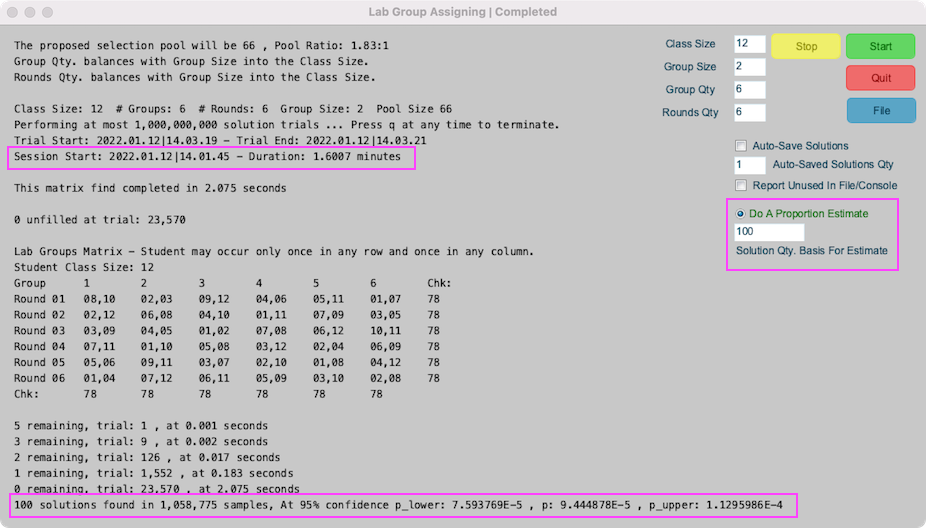
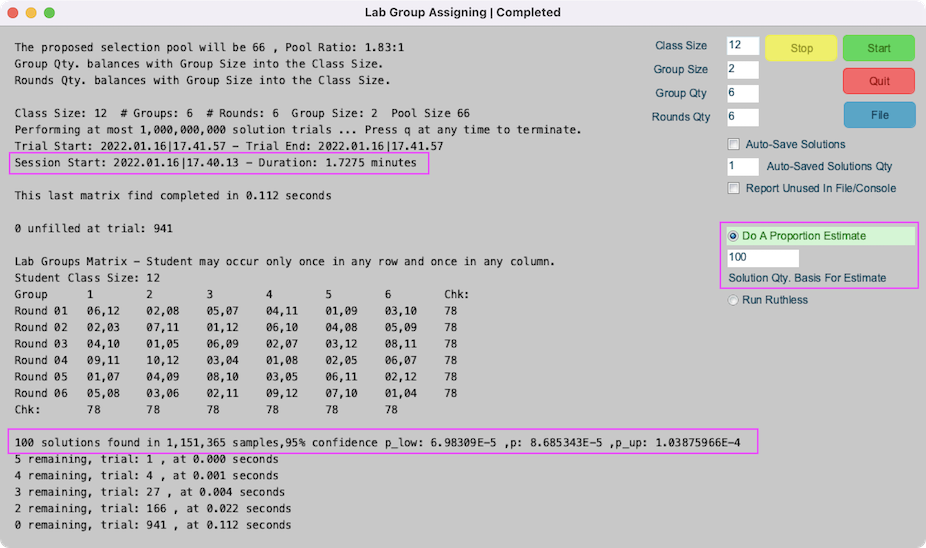
Readme edits

diff --git a/README.md b/README.md
@@ -13,8 +13,9 @@
   * **Group Size** - The student grouping size. The matrix cells are the assigned student groups. The students are selected from the class, i.e. the selection pool. The integer numbers identify the students. For example the student group, "03,06,12", is a group consisting of student 03, student 06 and student 12.
   * **Auto Save Solutions** - A checkbox for running a series of solutions for the same conditions where each solution result is automatically saved to a text file.
   * **Auto Saved Solutions** - The number of solutions that will be run with the same conditions where each solution result is saved to text file.
-  * **Do A Proportion Estimate** - Perform a 95% confidence interval for the proportion of assignment solutions there are in all the possible assignment matrix permutations.
+  * **Do A Proportion Estimate** - Option to perform a 95% confidence interval for the proportion of assignment solutions there are in all the possible assignment matrix permutations.
   * **Solution Qty. Basis For Estimate** - The number of solutions to find in order to make the solution proportion estimate. The minimum value is 5.
+  * **Run Ruthless** - Option to run faster.
 * The **Class Size** should be equal to the **Group Size** x (larger of **Group Qty** and **Rounds Qty**). Student selection will not be a balanced participation when **Group Qty** and **Rounds Qty** are not equal. The same applies when the **Class Size** is larger than the required number. **Chk** value variation indicates unbalanced participation.
 
 ## Example Screen - Solution Found
@@ -31,13 +32,16 @@
 
 ![Example Screen Run](./readme-images/LabGroupsAssigning-screen-proportion.png)
 
+![Example Screen Run](./readme-images/LabGroupsAssigning-screen-proportion-ruthless.png)
+
 ## Notes
 
-* The application window is re-sizable.
+* The application window is re-sizable at any time. On fast running computers the button controls require a longer press to activate than what you might expect.
 * Execution time is pure luck for the lengthy tasks. For example the solution for the 8 x 8 x 2 shown above occurred under 5 minutes. This same task could take hours.
 * The **Chk:** values are row and column checksum values that are the sum of the assigned student id numbers. Properly assigned row and columns will have the same checksum.
-* This program continuously makes random lab group selections for each matrix value chosen from an ever decreasing pool of remaining possible lab group candidates. It records the most filled assignment matrix and tracks the least unfilled number score. Matrix build attempts are abandoned when it develops an unfilled score equal to the best and therefore cannot be an improvement. The displayed matrix is the last best assignment matrix build. Selection trials stop when the matrix is totally filled or after the number of solution trials is expired.
+* This program continuously makes random lab group selections for each matrix value chosen from an ever decreasing pool of remaining possible lab group candidates. It records the most filled assignment matrix and tracks the least unfilled number score. Matrix build attempts are abandoned when it develops an unfilled score equal to the best and therefore cannot be a displayed improvement. The displayed matrix is the last best assignment matrix build. Selection trials stop when the matrix is totally filled or after the number of solution trials is expired.
 * Matrix values like --,--,-- indicate there was no valid lab group combination possible for that matrix position for the trial run.
+* Option Run Ruthless cancels a trial at the first impossible matrix group combination position instance instead of continuing to guess a failed matrix that scores better than the current best scoring failed matrix.
 * Terminating a long running solution attempt and then restarting it gains nothing. It would be pure random luck that a restarted solution attempt can quickly arrive at a solution. The matrix displayed while running a solution attempt is only the first best solution so far. It is not the basis for any subsequent possible solution. It represents a random matrix guess that failed because it was impossible to fill the unfilled cells. For every unfilled cell you can check and see for yourself that there could not be a remaining group that could satisfy the selection criteria.
 * The time required to complete the assignment matrix is a function of the selection pool size. The selection pool size depends on the class size (**n**) and the group size (**k**) as **n!/k!\*(n-k)!** . The number of possible assignment matrices of size **gr** (group qty x rounds qty) that can be selected from the pool size **p** is **p!/gr!\*(p-gr)!** . That number can be enormous.
 * The number of valid solution matrices within the pool of possible assignment matrices is what the proportion estimate is about. The number appears to be large enough to quickly find a valid solution at random from a pool of 3 trillion possible for a 5x5 matrix using a 2 group size. The proportion estimate is around 0.003718 or about 11.7 billion solutions. 
@@ -54,8 +58,8 @@
 
 ## Install and Running
 
-* A Prebuilt application file for Apple OSX is provided as a zip file in this repository at [/Releases/macosx](Releases/macosx/). It is also available in the releases section.
-* Prebuilt application files for Linux and Windows are not provided in this repository at this time. That may be in the future. They are easily built from the **Processing IDE** with the files in this repository. **LabGroupsAssigning** can be executed from within the **Processing IDE**. Those familiar with **Processing** would need no instructions other than the knowledge that the **G4P** GUI controls library needs to be installed. Those not familiar with **Processing** need to start here: **[Processing](https://www.processing.org)**.
+* A Prebuilt application file for Apple OSX is provided as a zip file is available in the releases section.
+* Prebuilt application files for Linux and Windows are not provided in this repository at this time. LabGroupAssigning is easily built from the **Processing IDE** (version 3 or 4) using the files in this repository. **LabGroupsAssigning** can be executed from within the **Processing IDE**. Those familiar with **Processing** would need no instructions other than the knowledge that the Peter Lager **G4P** GUI controls library needs to be installed. Those not familiar with **Processing** need to start here: **[Processing](https://www.processing.org)**.
 * A **Processing** application is a Java application. Therefore the Java run-time system is required to be installed or packaged within the application. As of this writing the option to package Java within the application is possible only with Apple OSX systems.
 * **Window Un-Minimizing (Unhide) on Apple OSX:** Select the running application's icon in the **Dock** to restore the minimized window. The exported **Processing** application for Apple OSX has a simple top menu that lacks **Window** controls used to restore a minimized window one might happen to minimize via the application's **Yellow** control dot. **Command Tab** switching to the application will not resize the minimized application window. This is normal behavior for OSX applications, but OSX applications have the top menu **Window** control where the OS places a restore option for all minimized child windows. As of this writing exported Processing 3 applications lack that control.
 
